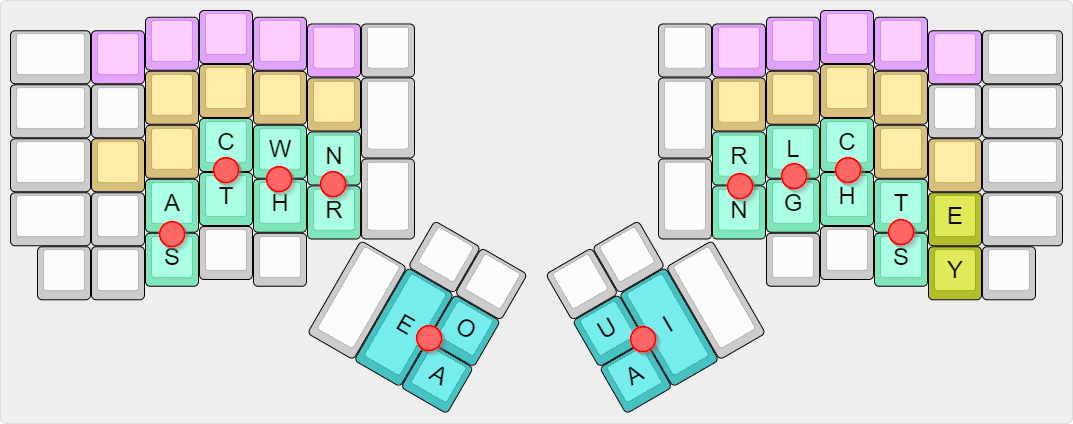
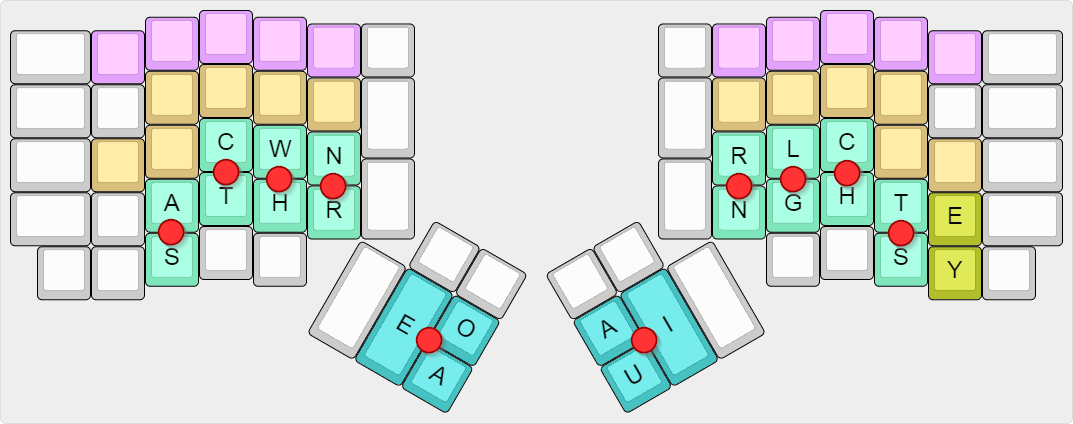
Bad vowels order fixed on the right thumbs cluster

diff --git a/keyboard/ergodox_ez/keymaps/fromtonrouge/keymap.c b/keyboard/ergodox_ez/keymaps/fromtonrouge/keymap.c
@@ -255,8 +255,8 @@ KEYMAP(
                             S_SPC, R_N,        R_G,        R_H,        R_T,        RP_E,       C_IC,
                                                0,          0,          R_S,        RP_Y,       C_IC,
                 SC_PLUS,    SC_PLUS,
-                T_U,
-                T_A,        T_I,       SC_PLUS 
+                T_A,
+                T_U,        T_I,       SC_PLUS 
 ),
 
 // SHIFT STENO MAP (when C_IC or C_UC are pressed)
